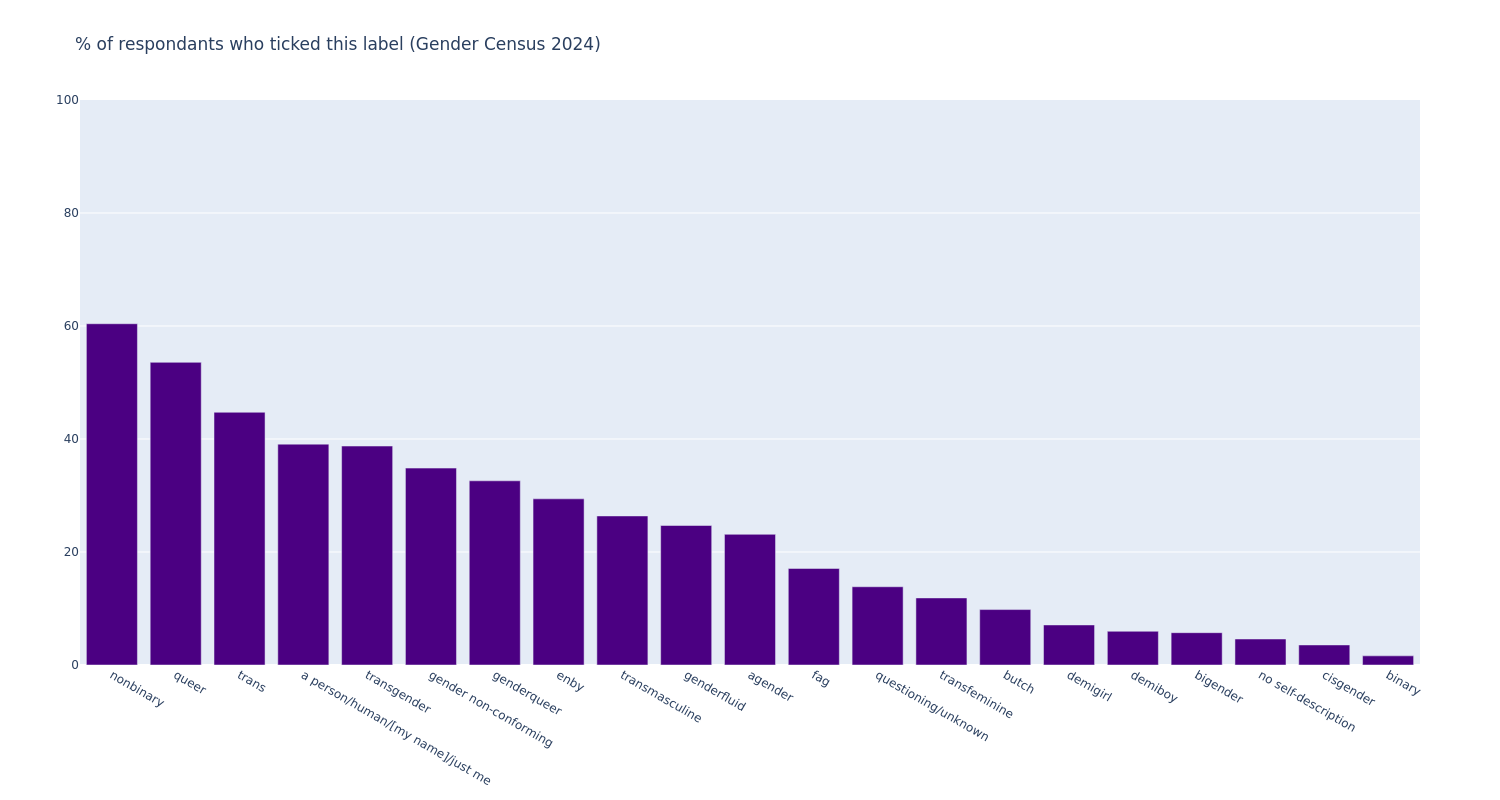
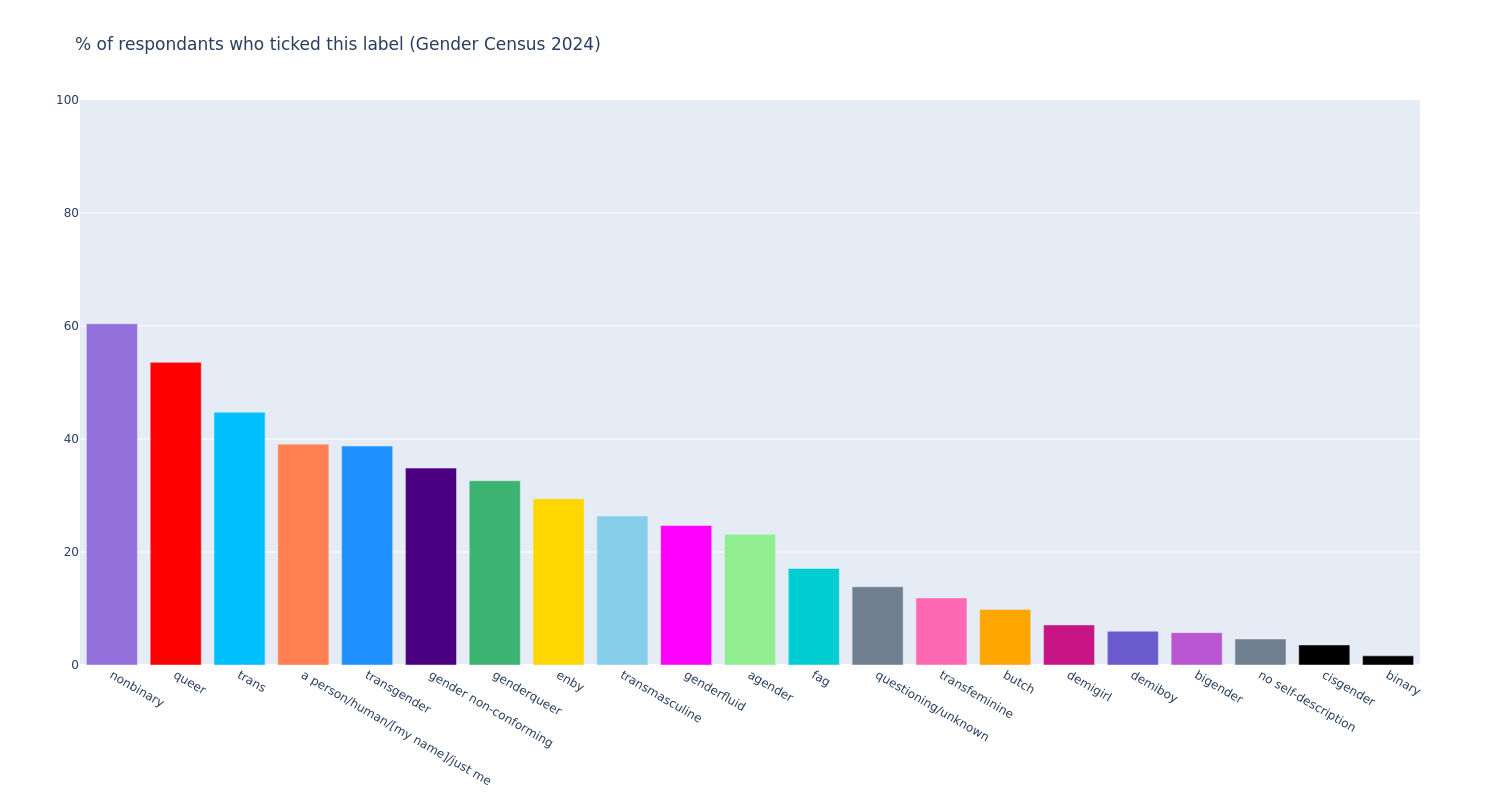
colour code tickbox labels

Changed region(s): [[0.0307, 0.4062, 0.276, 0.8438], [0.3067, 0.5938, 0.9507, 0.8438]]

diff --git a/visualisation/chart_colours.py b/visualisation/chart_colours.py
@@ -44,29 +44,29 @@ alignment_colours = {
 }
 
 # for reference of what they ended up being called
-tickbox_labels = [
-    "a person/human/[my name]/just me_tickbox",
-    "agender_tickbox",
-    "bigender_tickbox",
-    "binary_tickbox",
-    "butch_tickbox",
-    "cisgender_tickbox",
-    "demiboy_tickbox",
-    "demigirl_tickbox",
-    "enby_tickbox",
-    "fag_tickbox",
-    "gender non-conforming_tickbox",
-    "genderfluid_tickbox",
-    "genderqueer_tickbox",
-    "nonbinary_tickbox",
-    "queer_tickbox",
-    "questioning/unknown_tickbox",
-    "trans_tickbox",
-    "transfeminine_tickbox",
-    "transgender_tickbox",
-    "transmasculine_tickbox",
-    "no self-description_tickbox",
-]
+tickbox_labels = {
+    "a person/human/[my name]/just me_tickbox":"coral",
+    "agender_tickbox":"lightgreen",
+    "bigender_tickbox":"mediumorchid",
+    "binary_tickbox":"black", 
+    "butch_tickbox":"orange",
+    "cisgender_tickbox":"black",
+    "demiboy_tickbox":"slateblue",
+    "demigirl_tickbox":"mediumvioletred",
+    "enby_tickbox":"gold",
+    "fag_tickbox":"darkturquoise",
+    "gender non-conforming_tickbox":"indigo",
+    "genderfluid_tickbox":"fuchsia",
+    "genderqueer_tickbox":"mediumseagreen",
+    "nonbinary_tickbox":"mediumpurple",
+    "queer_tickbox":"red", # for first stripe of rainbow idk
+    "questioning/unknown_tickbox":"slategrey",
+    "trans_tickbox":"deepskyblue",
+    "transfeminine_tickbox":"hotpink",
+    "transgender_tickbox":"dodgerblue",
+    "transmasculine_tickbox":"skyblue",
+    "no self-description_tickbox":"slategrey",
+}
 other_tickbox_labels = {
     "cis_trans" : {
         "is_trans_tickbox":"lightblue",

diff --git a/visualisation/make_label_tickbox_charts.py b/visualisation/make_label_tickbox_charts.py
@@ -24,6 +24,8 @@ def make_label_tickbox_charts(input_df:pd.DataFrame):
         width=1500,
     )
 
+    # nb label users vs total nb umbrella label users (2 bars)
+    # nb labels vs other nb umbrella labels (comparison in each label's numbers) (bars)
     nb_users_df = count_df(tickbox_df, "tickbox_nb_labels")
     nb_users_fig = make_simple_bar(nb_users_df, "tickbox_nb_labels")
     nb_users_fig.write_image(
@@ -32,6 +34,7 @@ def make_label_tickbox_charts(input_df:pd.DataFrame):
         width=1500,
     )
     
+    # trans, cis, conflicted, unspecified (pie)
     trans_cis_df = count_df(tickbox_df, "tickbox_trans_cis_labels")
     trans_cis_fig = make_pie(trans_cis_df, "tickbox_trans_cis_labels")
     trans_cis_fig.write_image(
@@ -40,6 +43,7 @@ def make_label_tickbox_charts(input_df:pd.DataFrame):
         width=800,
     )
 
+    # transmasc, transfemme, unspecified trans (pie)
     trans_direction_df = count_df(tickbox_df, "tickbox_trans_direction_labels")
     trans_direction_fig = make_pie(trans_direction_df, "tickbox_trans_direction_labels")
     trans_direction_fig.write_image(
@@ -50,12 +54,8 @@ def make_label_tickbox_charts(input_df:pd.DataFrame):
 
 
     # total users per new columns
-        # trans, cis, conflicted, unspecified (pie)
-        # transmasc, transfemme, unspecified trans (pie)
         # nb vs not nb (pie)
         # nb umbrella vs not nb umbrella (pie)
-        # nb label users vs total nb umbrella label users (2 bars)
-        # nb labels vs other nb umbrella labels (comparison in each label's numbers) (bars)
 
     # cross overs
         # top 5-10 labels per each label/category

diff --git a/visualisation/vis_utils.py b/visualisation/vis_utils.py
@@ -22,10 +22,11 @@ def make_colour_list(input_list:list, data_case:str):
     elif data_case == "tickbox_labels": # getting colours based on whether they're tickbox or added columns
         colour_list = []
         for item in input_list:
-            # colour coding all straight up tickbox labels the same for now
+            # colour coding all straight up tickbox labels
             if item in tickbox_labels:
-                colour = "indigo"
-
+                #colour = "indigo"
+                colour = tickbox_labels[item]
+                
             # colour coding all conflicted & unspecified items the same
             elif "conflicted" in item:
                 colour = "firebrick"
